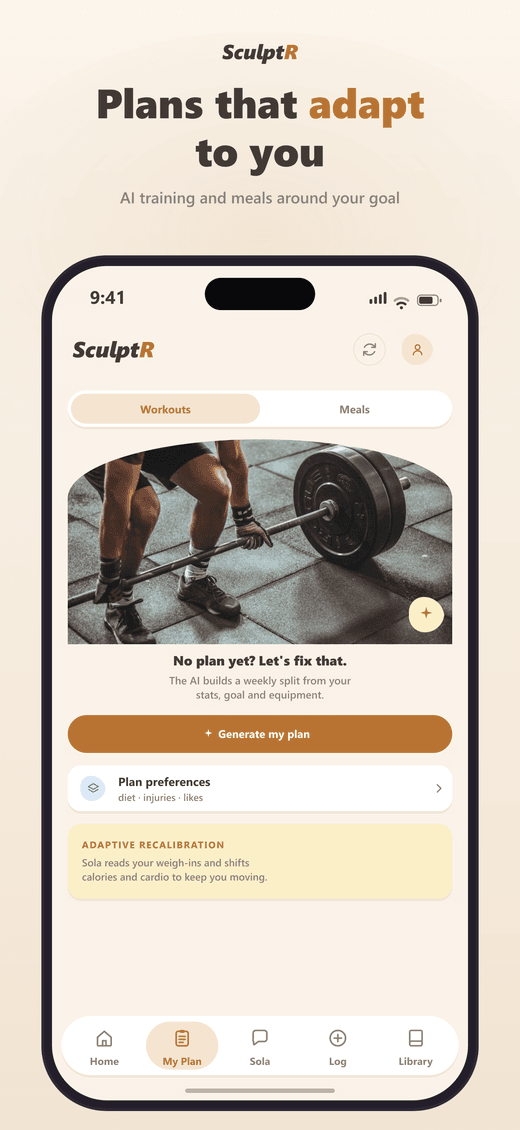
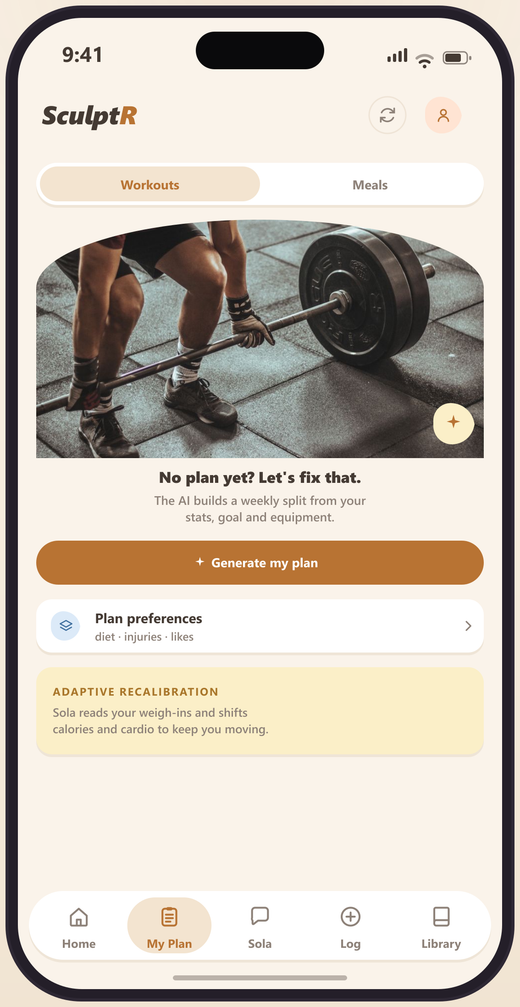
fix: crop screenshots to the phone, top-align hero, clearer pending badge
- Screenshots were the store marketing images with headlines baked in, so the
  phone occupied a fraction of a very tall image and read as squished. Cropped to
  the phone frame only (520x1007).
- That tall image was also why the copy sat mid-page: the hero grid centred the
  text against it. Switched to align-items:start so the headline sits just under
  the nav. Hero image now uses max-width + max-height with auto sizing, which fits
  both limits without ever distorting the aspect ratio.
- Pending store badge read "Get it on / Coming soon". Now reads "Coming soon on /
  Google Play" so the two lines form one sentence.

diff --git a/index.html b/index.html
@@ -56,8 +56,10 @@
   @media(max-width:720px){ nav .links a:not(.btn){display:none} }
 
   /* Hero */
-  .hero{padding:64px 0 40px}
-  .hero-grid{display:grid; grid-template-columns:1.05fr .95fr; gap:44px; align-items:center}
+  .hero{padding:40px 0 44px}
+  /* start, not center: the phone is taller than the copy, and centring against it
+     pushed the headline into the middle of the viewport */
+  .hero-grid{display:grid; grid-template-columns:1.05fr .95fr; gap:44px; align-items:start}
   .eyebrow{display:inline-flex; align-items:center; gap:8px; background:var(--copper-soft); color:var(--copper);
            border-radius:999px; padding:6px 14px; font-size:13px; font-weight:800; letter-spacing:.4px}
   h1{font-size:clamp(34px,5vw,54px); line-height:1.1; margin:16px 0 14px; font-weight:900; letter-spacing:-1px}
@@ -73,7 +75,11 @@
   .store.soon{background:var(--panel2); color:var(--mute) !important; cursor:default}
   .store.soon:hover{filter:none}
   .hero-shot{display:flex; justify-content:center}
-  .hero-shot img{width:min(300px,80vw); filter:drop-shadow(0 24px 44px rgba(42,31,22,.18))}
+  /* max-width + max-height with auto width/height: the browser fits the image
+     inside both limits and keeps the aspect ratio. Setting an explicit width
+     alongside max-height would squash it. */
+  .hero-shot img{max-width:min(290px,72vw); max-height:64vh; width:auto; height:auto;
+                 filter:drop-shadow(0 24px 44px rgba(42,31,22,.18))}
   @media(max-width:860px){ .hero-grid{grid-template-columns:1fr; text-align:center} .lead{margin-inline:auto} .stores{justify-content:center} }
 
   /* Sections */
@@ -150,7 +156,7 @@
         <div class="stores" id="hero-stores"></div>
       </div>
       <div class="hero-shot">
-        <img src="assets/01-home.png" alt="The SculptR home screen showing daily rings for calories, steps, weigh-in and workout" width="520" height="1130" />
+        <img src="assets/01-home.png" alt="The SculptR home screen showing daily rings for calories, steps, weigh-in and workout" width="520" height="1007" />
       </div>
     </div>
   </section>
@@ -294,7 +300,9 @@
       return '<a class="store" href="' + url + '" target="_blank" rel="noopener">' +
              '<span><small>' + small + '</small><b>' + big + '</b></span></a>';
     }
-    return '<span class="store soon"><span><small>' + small + '</small><b>Coming soon</b></span></span>';
+    // Pending: read the two lines together as one sentence ("Coming soon on
+    // Google Play"), not the live wording with "Coming soon" pasted underneath.
+    return '<span class="store soon"><span><small>Coming soon on</small><b>' + big + '</b></span></span>';
   }
 
   var markup =
